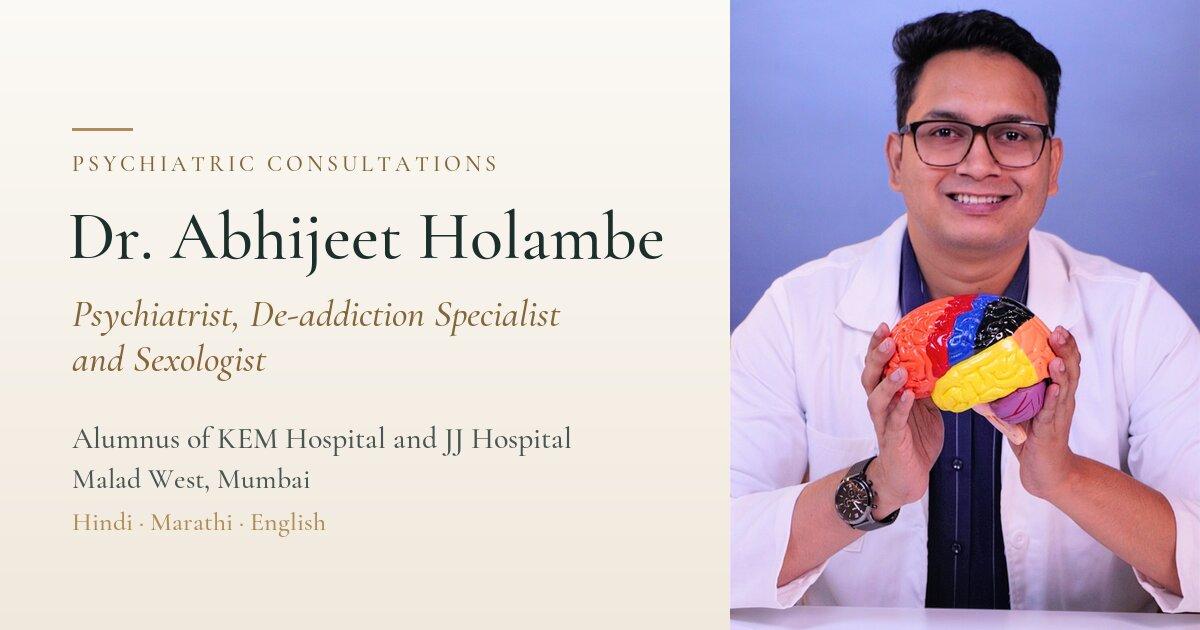
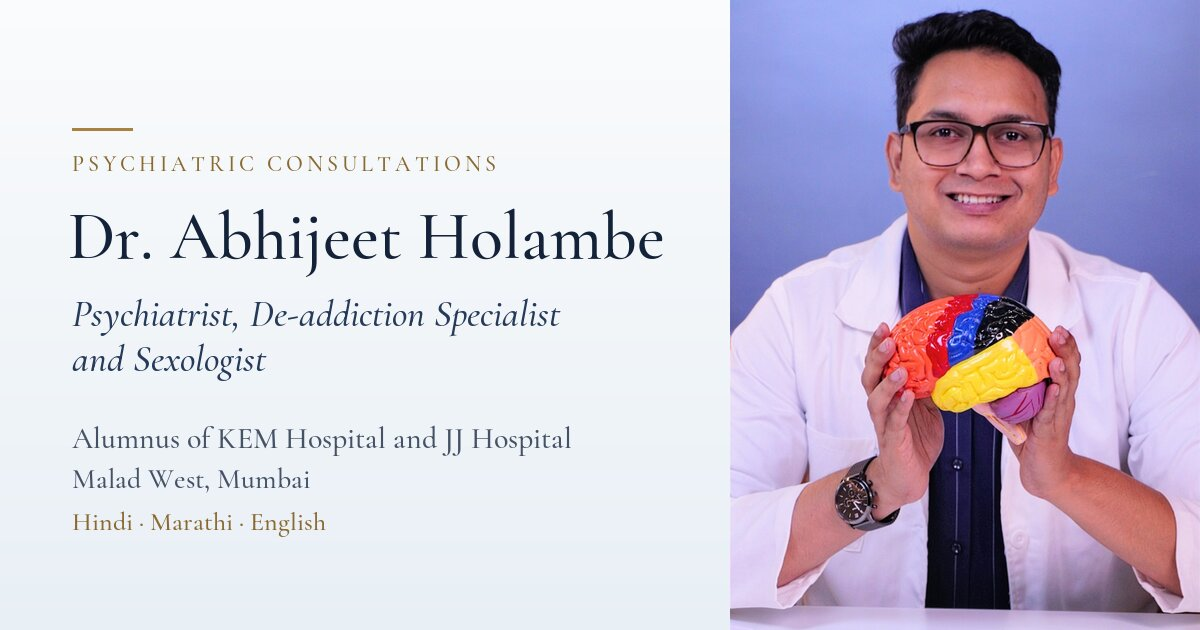
Switch palette from warm beige to cool porcelain and navy
- Rename color tokens to porcelain, mist and cloud and set cool values
- Use deep navy for text and buttons, keep muted gold for small accents
- Rename the soft accent token to sky
- Regenerate the share image in the new palette

Claude-Session: https://claude.ai/code/session_01XdHcfgJtNrDD8ZB43irrfS

diff --git a/src/app/(en)/about/page.tsx b/src/app/(en)/about/page.tsx
@@ -16,7 +16,7 @@ export default function AboutPage() {
     { "@type":"ListItem",position:1,name:"Home",item:siteUrl+"/" },
     { "@type":"ListItem",position:2,name:"About",item:siteUrl+"/about" },
   ]};
-  return <div className="min-h-screen bg-ivory pt-[72px]">
+  return <div className="min-h-screen bg-porcelain pt-[72px]">
     <script type="application/ld+json" dangerouslySetInnerHTML={{__html:JSON.stringify(schema)}} />
     <div className="mx-auto max-w-6xl px-5 py-12 sm:px-8 sm:py-16 lg:px-10">
       <nav aria-label="Breadcrumb" className="mb-8 text-sm text-subtle"><Link href="/" className="hover:text-ink">Home</Link><span className="mx-2">/</span><span>About</span></nav>
@@ -27,9 +27,9 @@ export default function AboutPage() {
           <h1 className="mt-4 font-serif text-4xl font-medium leading-tight tracking-tight text-ink sm:text-5xl">Dr. Abhijeet Holambe</h1>
           <p className="mt-4 text-lg leading-8 text-body">Psychiatrist, De-addiction Specialist and Sexologist · Alumnus of KEM Hospital and JJ Hospital, Mumbai · 6 years of clinical experience</p>
           <div className="mt-6 space-y-4 text-base leading-8 text-body"><p>{ABOUT.split("\n\n")[0]}</p><p>Dr. Holambe works as a psychiatrist, de-addiction specialist and sexologist. His approach begins with listening carefully, understanding each person’s concerns and circumstances, and explaining possible next steps in plain language. Care recommendations are individual. Medication is discussed when it may be clinically appropriate, with room to ask about benefits, side effects, and alternatives.</p><p>Alongside clinical consultations, Dr. Holambe’s work includes workplace wellness education and conversations about mental health at work. These sessions address stress, wellbeing, and ways to make it easier to seek support.</p></div>
-          <div className="mt-7 grid gap-3 sm:grid-cols-2"><div className="rounded-2xl bg-sand p-5"><p className="text-[13px] font-semibold uppercase tracking-[0.15em] text-bronze">Alumnus of KEM and JJ</p><p className="mt-2 text-sm leading-6 text-ink">Seth GS Medical College and KEM Hospital<br />Grant Medical College and JJ Hospital</p><p className="mt-3 text-xs font-semibold text-body">{QUALIFICATIONS.join(" · ")}</p></div><div className="rounded-2xl bg-sand p-5"><p className="text-[13px] font-semibold uppercase tracking-[0.15em] text-bronze">Languages and fees</p><p className="mt-2 text-sm leading-6 text-ink">{CONSULTATION_LANGUAGES.join(" · ")}</p><p className="mt-3 text-xs leading-5 text-body">First consultation: {FIRST_CONSULTATION_FEE}<br />Follow-up: {FOLLOW_UP_CONSULTATION_FEE}</p></div></div>
+          <div className="mt-7 grid gap-3 sm:grid-cols-2"><div className="rounded-2xl bg-mist p-5"><p className="text-[13px] font-semibold uppercase tracking-[0.15em] text-bronze">Alumnus of KEM and JJ</p><p className="mt-2 text-sm leading-6 text-ink">Seth GS Medical College and KEM Hospital<br />Grant Medical College and JJ Hospital</p><p className="mt-3 text-xs font-semibold text-body">{QUALIFICATIONS.join(" · ")}</p></div><div className="rounded-2xl bg-mist p-5"><p className="text-[13px] font-semibold uppercase tracking-[0.15em] text-bronze">Languages and fees</p><p className="mt-2 text-sm leading-6 text-ink">{CONSULTATION_LANGUAGES.join(" · ")}</p><p className="mt-3 text-xs leading-5 text-body">First consultation: {FIRST_CONSULTATION_FEE}<br />Follow-up: {FOLLOW_UP_CONSULTATION_FEE}</p></div></div>
           <div className="mt-7"><p className="text-sm font-semibold text-ink">Registration</p><p className="mt-2 text-sm leading-6 text-body">Maharashtra Medical Council registration no. 2020042727 (2020)</p></div><div className="mt-7"><p className="text-sm font-semibold text-ink">Areas of care</p><p className="mt-2 text-sm leading-6 text-body">{SPECIALISATIONS.join(" · ")}</p></div>
-          <div className="mt-8 rounded-2xl border border-line bg-white p-5"><p className="text-sm font-semibold text-ink">Workplace wellness</p><p className="mt-2 text-sm leading-6 text-body">Dr. Holambe conducts workplace wellness workshops on stress, burnout, and mental health at work. For workshop enquiries, contact the practice on WhatsApp.</p><a href={WHATSAPP_WORKSHOP_LINK} target="_blank" rel="noopener noreferrer" className="mt-4 inline-flex min-h-11 items-center justify-center rounded-full bg-ink px-5 py-2.5 text-sm font-semibold text-white">WhatsApp for workshop enquiries</a></div><div className="mt-8 flex flex-col gap-3 sm:flex-row"><a href={WHATSAPP_LINK} target="_blank" rel="noopener noreferrer" className="inline-flex min-h-12 items-center justify-center rounded-full bg-ink px-6 py-3 text-sm font-semibold text-white transition hover:bg-ink-soft">Book on WhatsApp</a><Link href="/contact" className="inline-flex min-h-12 items-center justify-center rounded-full border border-line-strong bg-white px-6 py-3 text-sm font-semibold text-ink transition hover:bg-sand">Clinic and contact details</Link></div>
+          <div className="mt-8 rounded-2xl border border-line bg-white p-5"><p className="text-sm font-semibold text-ink">Workplace wellness</p><p className="mt-2 text-sm leading-6 text-body">Dr. Holambe conducts workplace wellness workshops on stress, burnout, and mental health at work. For workshop enquiries, contact the practice on WhatsApp.</p><a href={WHATSAPP_WORKSHOP_LINK} target="_blank" rel="noopener noreferrer" className="mt-4 inline-flex min-h-11 items-center justify-center rounded-full bg-ink px-5 py-2.5 text-sm font-semibold text-white">WhatsApp for workshop enquiries</a></div><div className="mt-8 flex flex-col gap-3 sm:flex-row"><a href={WHATSAPP_LINK} target="_blank" rel="noopener noreferrer" className="inline-flex min-h-12 items-center justify-center rounded-full bg-ink px-6 py-3 text-sm font-semibold text-white transition hover:bg-ink-soft">Book on WhatsApp</a><Link href="/contact" className="inline-flex min-h-12 items-center justify-center rounded-full border border-line-strong bg-white px-6 py-3 text-sm font-semibold text-ink transition hover:bg-mist">Clinic and contact details</Link></div>
         </div>
       </div>
     </div>

diff --git a/src/app/(en)/services/[slug]/page.tsx b/src/app/(en)/services/[slug]/page.tsx
@@ -72,7 +72,7 @@ export default async function ServicePage({ params }: { params: Promise<{ slug: 
   };
 
   return (
-    <div className="min-h-screen bg-ivory pt-24">
+    <div className="min-h-screen bg-porcelain pt-24">
       <script type="application/ld+json" dangerouslySetInnerHTML={{ __html: JSON.stringify(structuredData).replace(/</g, "\\u003c") }} />
       <article className="mx-auto max-w-4xl px-5 py-12 sm:px-8 sm:py-16">
         <nav aria-label="Breadcrumb" className="mb-8 text-sm text-subtle">
@@ -93,7 +93,7 @@ export default async function ServicePage({ params }: { params: Promise<{ slug: 
         <section className="mt-10 rounded-3xl border border-line bg-white p-6 sm:p-8">
           <h2 className="font-serif text-2xl font-medium text-ink">Common signs and symptoms</h2>
           <ul className="mt-5 grid gap-3 sm:grid-cols-2">
-            {service.signs.map((sign) => <li key={sign} className="flex gap-3 rounded-2xl bg-sand p-4 text-sm leading-6 text-body"><span aria-hidden="true" className="mt-2 h-1.5 w-1.5 shrink-0 rounded-full bg-gold" />{sign}</li>)}
+            {service.signs.map((sign) => <li key={sign} className="flex gap-3 rounded-2xl bg-mist p-4 text-sm leading-6 text-body"><span aria-hidden="true" className="mt-2 h-1.5 w-1.5 shrink-0 rounded-full bg-gold" />{sign}</li>)}
           </ul>
         </section>
         <section className="mt-10">
@@ -106,16 +106,16 @@ export default async function ServicePage({ params }: { params: Promise<{ slug: 
           <p className="mt-4 text-base leading-8 text-body">Medication is prescribed only after an individual assessment and discussion. You can ask about the purpose, possible side effects, alternatives, and how follow-up will work. There are no guaranteed results; the plan is reviewed as your needs and circumstances change.</p>
         </section>
         <section className="mt-10 grid gap-5 md:grid-cols-2">
-          <div className="rounded-3xl bg-sand p-6 sm:p-7">
+          <div className="rounded-3xl bg-mist p-6 sm:p-7">
             <p className="text-xs font-semibold uppercase tracking-[0.18em] text-bronze">Your first appointment</p>
             <h2 className="mt-3 font-serif text-2xl font-medium text-ink">A conversation at your pace</h2>
             <p className="mt-3 text-sm leading-7 text-body">The first visit is a chance to explain what has been troubling you, when it began, and what you hope will change. Dr. Holambe will ask about your health, sleep, daily life, and any medicines or past care that may be relevant. You can ask questions and share only what you feel ready to discuss. Together, you can consider an assessment and agree on next steps. Bring a current medicine list or previous reports if you have them; they are helpful but not required to begin.</p>
           </div>
           <div className="rounded-3xl bg-ink p-6 text-white sm:p-7">
-            <p className="text-xs font-semibold uppercase tracking-[0.18em] text-gold-soft">Online consultation</p>
+            <p className="text-xs font-semibold uppercase tracking-[0.18em] text-sky">Online consultation</p>
             <h2 className="mt-3 font-serif text-2xl font-medium">Care from a private space</h2>
             <p className="mt-3 text-sm leading-7 text-white/75">Online appointments are available by arrangement. Choose a private, quiet place and keep any reports or medicine details nearby. Some concerns need an in-person visit, examination, or further tests; if so, the doctor will explain why and discuss the next step. Online appointments are not a substitute for urgent emergency care.</p>
-            <a href={Info.WHATSAPP_LINK} target="_blank" rel="noopener noreferrer" className="mt-5 inline-flex rounded-full bg-gold-soft px-5 py-3 text-sm font-semibold text-ink transition hover:bg-white">Ask about an online appointment</a>
+            <a href={Info.WHATSAPP_LINK} target="_blank" rel="noopener noreferrer" className="mt-5 inline-flex rounded-full bg-sky px-5 py-3 text-sm font-semibold text-ink transition hover:bg-white">Ask about an online appointment</a>
           </div>
         </section>
         <section className="mt-12">
@@ -128,7 +128,7 @@ export default async function ServicePage({ params }: { params: Promise<{ slug: 
           </div>
         </section>
         <p className="mt-10 border-t border-line pt-6 text-xs leading-5 text-subtle">Last reviewed by Dr. Abhijeet Holambe, MD Psychiatry — October 2026.</p>
-        <section className="mt-12 rounded-3xl border border-line bg-sand p-6 sm:p-8">
+        <section className="mt-12 rounded-3xl border border-line bg-mist p-6 sm:p-8">
           <div className="flex flex-col gap-6 sm:flex-row sm:items-center">
             <Image src="/dr-abhijeet-holambe-clinic.jpg" alt="Dr. Abhijeet Holambe, psychiatrist in Malad West" width={1600} height={2844} sizes="96px" className="h-24 w-24 rounded-full object-cover object-[center_25%]" />
             <div className="flex-1">
@@ -147,7 +147,7 @@ export default async function ServicePage({ params }: { params: Promise<{ slug: 
           <div className="mt-4 flex flex-wrap gap-3">
             {service.related.map((relatedSlug) => {
               const relatedService = services[relatedSlug as ServiceSlug];
-              return <Link key={relatedSlug} href={"/services/" + relatedSlug} className="rounded-full border border-line bg-white px-4 py-2 text-sm text-bronze transition hover:border-gold hover:bg-sand">{relatedService.title}</Link>;
+              return <Link key={relatedSlug} href={"/services/" + relatedSlug} className="rounded-full border border-line bg-white px-4 py-2 text-sm text-bronze transition hover:border-gold hover:bg-mist">{relatedService.title}</Link>;
             })}
           </div>
         </section>

diff --git a/src/app/ui/navbar.tsx b/src/app/ui/navbar.tsx
@@ -67,21 +67,21 @@ export default function Navbar({ locale = "en" }: { locale?: string }) {
   const t = copy[locale] ?? copy.en;
   const home = t.links[0].href;
   return (
-    <header className="fixed inset-x-0 top-0 z-40 border-b border-line bg-ivory/90 text-ink shadow-sm backdrop-blur-lg">
+    <header className="fixed inset-x-0 top-0 z-40 border-b border-line bg-porcelain/90 text-ink shadow-sm backdrop-blur-lg">
       <nav aria-label="Main navigation" className="mx-auto flex h-[72px] max-w-7xl items-center justify-between px-5 sm:px-8 lg:px-12">
         <Link href={home} className="whitespace-nowrap font-serif text-xl font-medium tracking-tight sm:text-2xl" onClick={() => setOpen(false)}>{Info.NAME}</Link>
         <div className="hidden items-center gap-6 xl:flex">
           {t.links.map((link) => <Link key={link.href} href={link.href} prefetch={false} className="whitespace-nowrap text-sm text-body transition hover:text-ink">{link.label}</Link>)}
-          <div className="flex items-center gap-2">{t.languages.map((language, index) => <span key={language.href} className="flex items-center gap-2">{index > 0 && <span aria-hidden="true" className="text-line-strong">|</span>}<Link href={language.href} aria-label={language.label} className="text-xs font-semibold text-body hover:text-ink">{language.short}</Link></span>)}<a href={Info.WHATSAPP_LINK} target="_blank" rel="noopener noreferrer" className="ml-2 whitespace-nowrap rounded-full bg-ink px-5 py-2.5 text-sm font-semibold text-ivory transition hover:bg-ink-soft">{t.book}</a></div>
+          <div className="flex items-center gap-2">{t.languages.map((language, index) => <span key={language.href} className="flex items-center gap-2">{index > 0 && <span aria-hidden="true" className="text-line-strong">|</span>}<Link href={language.href} aria-label={language.label} className="text-xs font-semibold text-body hover:text-ink">{language.short}</Link></span>)}<a href={Info.WHATSAPP_LINK} target="_blank" rel="noopener noreferrer" className="ml-2 whitespace-nowrap rounded-full bg-ink px-5 py-2.5 text-sm font-semibold text-porcelain transition hover:bg-ink-soft">{t.book}</a></div>
         </div>
-        <button type="button" aria-label={open ? t.close : t.open} aria-expanded={open} onClick={() => setOpen(!open)} className="grid h-11 w-11 place-items-center rounded-full border border-line transition hover:bg-stone xl:hidden">
+        <button type="button" aria-label={open ? t.close : t.open} aria-expanded={open} onClick={() => setOpen(!open)} className="grid h-11 w-11 place-items-center rounded-full border border-line transition hover:bg-cloud xl:hidden">
           {open ? <X aria-hidden="true" className="h-5 w-5" /> : <Menu aria-hidden="true" className="h-5 w-5" />}
         </button>
       </nav>
-      {open && <div className="border-t border-line bg-sand px-5 py-3 xl:hidden">
+      {open && <div className="border-t border-line bg-mist px-5 py-3 xl:hidden">
         <div className="mx-auto flex max-w-7xl flex-col">
-          {t.links.map((link) => <Link key={link.href} href={link.href} onClick={() => setOpen(false)} className="rounded-xl px-3 py-3 text-base text-body transition hover:bg-stone hover:text-ink">{link.label}</Link>)}
-          <div className="mt-2 flex items-center justify-center gap-3 py-2">{t.languages.map((language, index) => <span key={language.href} className="flex items-center gap-3">{index > 0 && <span aria-hidden="true" className="text-line-strong">|</span>}<Link href={language.href} onClick={() => setOpen(false)} className="text-sm font-semibold text-body">{language.label}</Link></span>)}</div><a href={Info.WHATSAPP_LINK} target="_blank" rel="noopener noreferrer" onClick={() => setOpen(false)} className="rounded-full bg-ink px-5 py-3 text-center text-sm font-semibold text-ivory">{t.bookMobile}</a>
+          {t.links.map((link) => <Link key={link.href} href={link.href} onClick={() => setOpen(false)} className="rounded-xl px-3 py-3 text-base text-body transition hover:bg-cloud hover:text-ink">{link.label}</Link>)}
+          <div className="mt-2 flex items-center justify-center gap-3 py-2">{t.languages.map((language, index) => <span key={language.href} className="flex items-center gap-3">{index > 0 && <span aria-hidden="true" className="text-line-strong">|</span>}<Link href={language.href} onClick={() => setOpen(false)} className="text-sm font-semibold text-body">{language.label}</Link></span>)}</div><a href={Info.WHATSAPP_LINK} target="_blank" rel="noopener noreferrer" onClick={() => setOpen(false)} className="rounded-full bg-ink px-5 py-3 text-center text-sm font-semibold text-porcelain">{t.bookMobile}</a>
         </div>
       </div>}
     </header>

diff --git a/src/app/ui/hero.tsx b/src/app/ui/hero.tsx
@@ -4,7 +4,7 @@ import * as Info from "@/app/config/constants/info";
 
 export default function Hero() {
   return (
-    <section id="hero" className="relative isolate overflow-hidden bg-gradient-to-b from-ivory to-sand pt-[72px] text-ink">
+    <section id="hero" className="relative isolate overflow-hidden bg-gradient-to-b from-porcelain to-mist pt-[72px] text-ink">
       <div aria-hidden="true" className="pointer-events-none absolute -right-40 -top-40 h-[36rem] w-[36rem] rounded-full border border-line" />
       <div aria-hidden="true" className="pointer-events-none absolute -right-12 -top-10 h-[26rem] w-[26rem] rounded-full border border-line" />
       <div className="relative mx-auto grid max-w-7xl items-center gap-12 px-5 pb-16 pt-12 sm:px-8 sm:pb-20 lg:min-h-[690px] lg:grid-cols-[1.08fr_0.92fr] lg:gap-16 lg:px-12">
@@ -16,7 +16,7 @@ export default function Hero() {
           <p className="mx-auto mt-5 flex max-w-xl items-start gap-3 rounded-2xl border border-gold/40 bg-white/70 px-4 py-3 text-left text-sm leading-6 text-body sm:text-base lg:mx-0"><GraduationCap aria-hidden="true" className="mt-0.5 h-5 w-5 shrink-0 text-gold" /><span><span className="font-semibold text-ink">Alumnus of KEM Hospital and JJ Hospital, Mumbai.</span> MBBS from Seth GS Medical College and KEM Hospital; MD Psychiatry from Grant Medical College and JJ Hospital.</span></p>
           <p className="mx-auto mt-6 max-w-xl text-base leading-8 text-body sm:text-lg lg:mx-0">Dr. Abhijeet Holambe offers psychiatric consultations for anxiety, low mood, sleep difficulties, sexual health and substance-use concerns. In-person appointments are at Sun Multispeciality Hospital in Malad West, Mumbai; online consultations are available by arrangement.</p>
           <div className="mt-8 flex flex-col justify-center gap-3 sm:flex-row lg:justify-start">
-            <a href={Info.WHATSAPP_LINK} target="_blank" rel="noopener noreferrer" className="inline-flex min-h-12 items-center justify-center gap-2 rounded-full bg-ink px-7 py-3 text-sm font-semibold text-ivory shadow-lg shadow-ink/10 transition hover:-translate-y-0.5 hover:bg-ink-soft">Book on WhatsApp <span aria-hidden="true">↗</span></a>
+            <a href={Info.WHATSAPP_LINK} target="_blank" rel="noopener noreferrer" className="inline-flex min-h-12 items-center justify-center gap-2 rounded-full bg-ink px-7 py-3 text-sm font-semibold text-porcelain shadow-lg shadow-ink/10 transition hover:-translate-y-0.5 hover:bg-ink-soft">Book on WhatsApp <span aria-hidden="true">↗</span></a>
             <a href={Info.PHONE_LINK} className="inline-flex min-h-12 items-center justify-center gap-2 rounded-full border border-line px-7 py-3 text-sm font-medium text-ink transition hover:border-ink hover:bg-white/60"><span aria-hidden="true">☎</span> Call now</a>
           </div>
           <div className="mx-auto mt-9 grid max-w-xl grid-cols-2 gap-x-4 gap-y-4 border-t border-line pt-6 text-left sm:grid-cols-4 lg:mx-0 lg:max-w-none">
@@ -28,10 +28,10 @@ export default function Hero() {
         </div>
         <div className="relative mx-auto w-full max-w-[430px] lg:mr-2">
           <div aria-hidden="true" className="absolute -inset-4 rounded-[13rem_13rem_2rem_2rem] border border-line bg-white/40" />
-          <div className="relative overflow-hidden rounded-[12rem_12rem_1.5rem_1.5rem] border border-line bg-stone shadow-2xl shadow-ink/10">
+          <div className="relative overflow-hidden rounded-[12rem_12rem_1.5rem_1.5rem] border border-line bg-cloud shadow-2xl shadow-ink/10">
             <Image src="/dr-abhijeet-holambe-brain-model.jpg" alt="Dr. Abhijeet Holambe holding a brain model, psychiatrist in Malad West, Mumbai" width={1600} height={2844} sizes="(max-width: 1024px) 85vw, 430px" priority className="aspect-[4/5] w-full object-cover object-[center_30%]" />
           </div>
-          <div className="absolute -bottom-4 -left-5 hidden rounded-2xl border border-line bg-ivory px-5 py-4 shadow-xl sm:block"><p className="text-xs font-semibold uppercase tracking-[0.18em] text-bronze">Alumnus of</p><p className="mt-1 text-sm text-ink">KEM Hospital · JJ Hospital</p></div>
+          <div className="absolute -bottom-4 -left-5 hidden rounded-2xl border border-line bg-porcelain px-5 py-4 shadow-xl sm:block"><p className="text-xs font-semibold uppercase tracking-[0.18em] text-bronze">Alumnus of</p><p className="mt-1 text-sm text-ink">KEM Hospital · JJ Hospital</p></div>
         </div>
       </div>
     </section>

diff --git a/src/app/ui/about.tsx b/src/app/ui/about.tsx
@@ -14,7 +14,7 @@ export default function About() {
         <div className="pt-3">
           <p className="text-xs font-semibold uppercase tracking-[0.2em] text-bronze">A little about the practice</p>
           <h2 className="mt-4 font-serif text-4xl font-medium leading-tight tracking-tight text-ink sm:text-5xl">Meet Dr. Abhijeet Holambe</h2>
-          <div className="mt-6 rounded-2xl border border-line bg-sand p-5">
+          <div className="mt-6 rounded-2xl border border-line bg-mist p-5">
             <p className="flex items-center gap-2 font-serif text-xl font-medium text-ink"><GraduationCap aria-hidden="true" className="h-5 w-5 text-gold" />Alumnus of KEM Hospital and JJ Hospital</p>
             <ul className="mt-3 space-y-2 text-sm leading-6 text-body">
               <li><span className="font-semibold text-ink">MBBS</span> · Seth GS Medical College and KEM Hospital, Mumbai</li>
@@ -24,10 +24,10 @@ export default function About() {
           <p className="mt-6 whitespace-pre-line text-base leading-8 text-body">{Info.ABOUT}</p><p className="mt-4 text-sm leading-7 text-body"><span className="font-semibold text-ink">Role:</span> {Info.ROLE}</p>
           <div className="mt-6 border-t border-line pt-5 text-sm text-body"><span className="font-semibold text-ink">Clinical areas</span><span className="mt-2 block">{Info.SPECIALISATIONS.join(" · ")}</span></div>
                     <div className="mt-6 grid gap-3 border-t border-line pt-6 sm:grid-cols-2">
-            <div className="rounded-2xl bg-sand p-4"><p className="text-[13px] font-semibold uppercase tracking-[0.16em] text-bronze">Consultation languages</p><p className="mt-2 text-sm font-medium text-ink">{Info.CONSULTATION_LANGUAGES.join(" · ")}</p></div>
-            <div className="rounded-2xl bg-sand p-4"><p className="text-[13px] font-semibold uppercase tracking-[0.16em] text-bronze">Consultation fees</p><p className="mt-2 text-sm leading-6 text-ink">First consultation: {Info.FIRST_CONSULTATION_FEE}<br />Follow-ups: {Info.FOLLOW_UP_CONSULTATION_FEE}</p></div>
+            <div className="rounded-2xl bg-mist p-4"><p className="text-[13px] font-semibold uppercase tracking-[0.16em] text-bronze">Consultation languages</p><p className="mt-2 text-sm font-medium text-ink">{Info.CONSULTATION_LANGUAGES.join(" · ")}</p></div>
+            <div className="rounded-2xl bg-mist p-4"><p className="text-[13px] font-semibold uppercase tracking-[0.16em] text-bronze">Consultation fees</p><p className="mt-2 text-sm leading-6 text-ink">First consultation: {Info.FIRST_CONSULTATION_FEE}<br />Follow-ups: {Info.FOLLOW_UP_CONSULTATION_FEE}</p></div>
           </div>
-          <div className="mt-7 flex flex-col gap-3 sm:flex-row"><Link href="/about" className="inline-flex min-h-11 items-center justify-center rounded-full bg-ink px-6 py-3 text-sm font-semibold text-white transition hover:bg-ink-soft">About Dr. Holambe</Link><Link href="/contact" className="inline-flex min-h-11 items-center justify-center rounded-full border border-line-strong bg-white px-6 py-3 text-sm font-semibold text-ink transition hover:bg-sand">Contact and directions</Link></div>
+          <div className="mt-7 flex flex-col gap-3 sm:flex-row"><Link href="/about" className="inline-flex min-h-11 items-center justify-center rounded-full bg-ink px-6 py-3 text-sm font-semibold text-white transition hover:bg-ink-soft">About Dr. Holambe</Link><Link href="/contact" className="inline-flex min-h-11 items-center justify-center rounded-full border border-line-strong bg-white px-6 py-3 text-sm font-semibold text-ink transition hover:bg-mist">Contact and directions</Link></div>
         </div>
       </div>
     </section>

diff --git a/src/app/(en)/faq/page.tsx b/src/app/(en)/faq/page.tsx
@@ -30,14 +30,14 @@ export default function FAQPage() {
     {"@type":"FAQPage","mainEntity":faqs.map(([question,answer])=>({"@type":"Question",name:question,acceptedAnswer:{"@type":"Answer",text:answer}}))},
     {"@type":"BreadcrumbList","itemListElement":[{"@type":"ListItem",position:1,name:"Home",item:siteUrl+"/"},{"@type":"ListItem",position:2,name:"FAQ",item:siteUrl+"/faq"}]}
   ]};
-  return <div className="min-h-screen bg-ivory px-5 pb-16 pt-28 sm:px-8 sm:pt-36">
+  return <div className="min-h-screen bg-porcelain px-5 pb-16 pt-28 sm:px-8 sm:pt-36">
     <script type="application/ld+json" dangerouslySetInnerHTML={{__html:JSON.stringify(schema)}} />
     <div className="mx-auto max-w-4xl">
       <nav aria-label="Breadcrumb" className="mb-8 text-sm text-subtle"><Link href="/" className="hover:text-ink">Home</Link><span className="mx-2">/</span><span>FAQ</span></nav>
       <p className="text-xs font-semibold uppercase tracking-[0.2em] text-bronze">Before your visit</p><h1 className="mt-4 font-serif text-4xl font-medium leading-tight text-ink sm:text-5xl">Frequently asked questions</h1>
       <p className="mt-5 max-w-2xl text-base leading-7 text-body">Straightforward information about consultations with Dr. Abhijeet Holambe.</p>
       <div className="mt-9 divide-y divide-line border-y border-line">{faqs.map(([question,answer])=><details key={question} className="group py-5"><summary className="cursor-pointer list-none pr-8 font-medium text-ink">{question}<span aria-hidden="true" className="float-right text-gold transition group-open:rotate-45">＋</span></summary><p className="mt-3 max-w-3xl text-sm leading-7 text-body">{answer}</p></details>)}</div>
-      <div className="mt-10 rounded-3xl bg-sand p-6 sm:p-8"><h2 className="font-serif text-2xl text-ink">Need help booking?</h2><p className="mt-2 text-sm leading-6 text-body">Contact the practice to request an in-person or online appointment.</p><div className="mt-5 flex flex-col gap-3 sm:flex-row"><a href={Info.WHATSAPP_LINK} target="_blank" rel="noopener noreferrer" className="inline-flex min-h-12 items-center justify-center rounded-full bg-ink px-6 py-3 text-sm font-semibold text-white">Book on WhatsApp</a><a href={Info.PHONE_LINK} className="inline-flex min-h-12 items-center justify-center rounded-full border border-line-strong bg-white px-6 py-3 text-sm font-semibold text-ink">Call now</a></div></div>
+      <div className="mt-10 rounded-3xl bg-mist p-6 sm:p-8"><h2 className="font-serif text-2xl text-ink">Need help booking?</h2><p className="mt-2 text-sm leading-6 text-body">Contact the practice to request an in-person or online appointment.</p><div className="mt-5 flex flex-col gap-3 sm:flex-row"><a href={Info.WHATSAPP_LINK} target="_blank" rel="noopener noreferrer" className="inline-flex min-h-12 items-center justify-center rounded-full bg-ink px-6 py-3 text-sm font-semibold text-white">Book on WhatsApp</a><a href={Info.PHONE_LINK} className="inline-flex min-h-12 items-center justify-center rounded-full border border-line-strong bg-white px-6 py-3 text-sm font-semibold text-ink">Call now</a></div></div>
     </div>
   </div>;
 }

diff --git a/src/app/ui/locations.tsx b/src/app/ui/locations.tsx
@@ -4,10 +4,10 @@ import * as Info from "@/app/config/constants/info";
 
 export default function Locations() {
   return (
-    <section id="locations" className="scroll-reveal bg-sand py-20 text-ink sm:py-24">
+    <section id="locations" className="scroll-reveal bg-mist py-20 text-ink sm:py-24">
       <div className="mx-auto max-w-6xl px-5 sm:px-8 lg:px-10">
         <div className="mb-9 max-w-xl"><p className="text-xs font-semibold uppercase tracking-[0.2em] text-bronze">Clinic information</p><h2 className="mt-4 font-serif text-4xl font-medium leading-tight tracking-tight sm:text-5xl">Psychiatric consultations in Malad West, Mumbai</h2><p className="mt-5 leading-7 text-body">In-person appointments are at Sun Multispeciality Hospital in Malad West. People from nearby Kandivali, Goregaon and Borivali can request an appointment; online consultations are also available by arrangement.</p></div>
-        <div className="grid overflow-hidden rounded-3xl bg-ivory text-ink shadow-2xl shadow-black/10 lg:grid-cols-[0.78fr_1.22fr]">
+        <div className="grid overflow-hidden rounded-3xl bg-porcelain text-ink shadow-2xl shadow-black/10 lg:grid-cols-[0.78fr_1.22fr]">
           <div className="p-7 sm:p-9">
             <p className="text-xs font-semibold uppercase tracking-[0.18em] text-bronze">Malad West · Mumbai</p><h3 className="mt-3 font-serif text-2xl font-medium sm:text-3xl">Sun Multispeciality Hospital</h3>
             <address className="mt-4 flex gap-3 not-italic text-sm leading-7 text-body"><MapPin className="mt-1 h-4 w-4 shrink-0 text-bronze" /><span>{Info.ADDRESS}</span></address>
@@ -16,7 +16,7 @@ export default function Locations() {
             <Link href="/contact" className="mt-5 inline-flex text-sm font-semibold text-bronze underline decoration-line-strong underline-offset-4 hover:text-ink">Full address, hours and contact details</Link>
             <a className="mt-7 inline-flex items-center justify-center rounded-full bg-ink px-6 py-3 text-sm font-semibold text-white transition hover:bg-ink-soft" href={Info.GOOGLE_MAPS} target="_blank" rel="noopener noreferrer">Open directions <span aria-hidden="true" className="ml-2">↗</span></a>
           </div>
-          <div className="min-h-[340px] bg-stone sm:min-h-[420px]"><iframe title="Map to Sun Multispeciality Hospital in Malad West, Mumbai" src="https://www.google.com/maps?q=Sun%20Multispeciality%20Hospital%2C%20Malad%20West%2C%20Mumbai&output=embed" width="100%" height="100%" loading="lazy" referrerPolicy="no-referrer-when-downgrade" className="min-h-[340px] w-full border-0 sm:min-h-[420px]" /></div>
+          <div className="min-h-[340px] bg-cloud sm:min-h-[420px]"><iframe title="Map to Sun Multispeciality Hospital in Malad West, Mumbai" src="https://www.google.com/maps?q=Sun%20Multispeciality%20Hospital%2C%20Malad%20West%2C%20Mumbai&output=embed" width="100%" height="100%" loading="lazy" referrerPolicy="no-referrer-when-downgrade" className="min-h-[340px] w-full border-0 sm:min-h-[420px]" /></div>
         </div>
       </div>
     </section>

diff --git a/src/app/(en)/contact/page.tsx b/src/app/(en)/contact/page.tsx
@@ -11,7 +11,7 @@ export const metadata: Metadata = {
 };
 export default function ContactPage() {
   const schema={"@context":"https://schema.org","@type":"BreadcrumbList","itemListElement":[{"@type":"ListItem",position:1,name:"Home",item:siteUrl+"/"},{"@type":"ListItem",position:2,name:"Contact",item:siteUrl+"/contact"}]};
-  return <div className="min-h-screen bg-ivory px-5 pb-16 pt-28 sm:px-8 sm:pt-36">
+  return <div className="min-h-screen bg-porcelain px-5 pb-16 pt-28 sm:px-8 sm:pt-36">
     <script type="application/ld+json" dangerouslySetInnerHTML={{__html:JSON.stringify(schema)}} />
     <div className="mx-auto max-w-6xl">
       <nav aria-label="Breadcrumb" className="mb-8 text-sm text-subtle"><Link href="/" className="hover:text-ink">Home</Link><span className="mx-2">/</span><span>Contact</span></nav>
@@ -28,7 +28,7 @@ export default function ContactPage() {
           </div>
           <p className="mt-5 text-sm leading-6 text-body"><strong className="text-ink">Consultation fees:</strong> First consultation ₹1,800 · Follow-up ₹1,500</p><p className="mt-2 text-sm leading-6 text-body"><strong className="text-ink">Languages:</strong> Hindi · Marathi · English</p><a className="mt-7 inline-flex min-h-12 items-center justify-center rounded-full bg-ink px-6 py-3 text-sm font-semibold text-white transition hover:bg-ink-soft" href={Info.GOOGLE_MAPS} target="_blank" rel="noopener noreferrer">Open Google Maps directions ↗</a>
         </div>
-        <div className="min-h-[360px] bg-stone sm:min-h-[480px]"><iframe title="Sun Multispeciality Hospital location in Malad West, Mumbai" src="https://www.google.com/maps?q=Sun%20Multispeciality%20Hospital%2C%20Malad%20West%2C%20Mumbai&output=embed" width="100%" height="100%" loading="lazy" referrerPolicy="no-referrer-when-downgrade" className="min-h-[360px] w-full border-0 sm:min-h-[480px]" /></div>
+        <div className="min-h-[360px] bg-cloud sm:min-h-[480px]"><iframe title="Sun Multispeciality Hospital location in Malad West, Mumbai" src="https://www.google.com/maps?q=Sun%20Multispeciality%20Hospital%2C%20Malad%20West%2C%20Mumbai&output=embed" width="100%" height="100%" loading="lazy" referrerPolicy="no-referrer-when-downgrade" className="min-h-[360px] w-full border-0 sm:min-h-[480px]" /></div>
       </div>
       <p className="mt-8 text-sm text-body">For information about what to expect, visit <Link className="font-medium text-bronze underline underline-offset-4" href="/faq">frequently asked questions</Link>.</p>
     </div>

diff --git a/src/components/services-cards.tsx b/src/components/services-cards.tsx
@@ -12,7 +12,7 @@ export default function ServicesCards() {
         {serviceCards.slice(0, FEATURED_COUNT).map((service, index) => {
           const Icon = icons[index % icons.length];
           return <Link key={service.slug} href={"/services/" + service.slug} prefetch={false} className="group flex flex-col rounded-3xl border border-line bg-white p-6 shadow-sm transition duration-300 hover:-translate-y-1 hover:border-gold hover:shadow-xl hover:shadow-ink/10 focus-visible:outline-none focus-visible:ring-2 focus-visible:ring-gold">
-            <span className="grid h-12 w-12 place-items-center rounded-2xl bg-sand transition group-hover:bg-stone"><Icon aria-hidden="true" className="h-5 w-5 text-bronze" strokeWidth={1.7} /></span>
+            <span className="grid h-12 w-12 place-items-center rounded-2xl bg-mist transition group-hover:bg-cloud"><Icon aria-hidden="true" className="h-5 w-5 text-bronze" strokeWidth={1.7} /></span>
             <h3 className="mt-5 font-serif text-2xl font-medium leading-snug text-ink">{service.title}</h3>
             <p className="mt-2 flex-1 text-sm leading-6 text-body">{service.description}</p>
             <span className="mt-5 inline-flex items-center gap-2 text-sm font-semibold text-bronze">Read the guide <span aria-hidden="true" className="transition group-hover:translate-x-1">→</span></span>
@@ -22,7 +22,7 @@ export default function ServicesCards() {
       <div className="mt-10 rounded-3xl border border-line bg-white p-6 sm:p-8">
         <h3 className="font-serif text-2xl font-medium text-ink">More areas of care</h3>
         <ul className="mt-5 flex flex-wrap gap-3">
-          {serviceCards.slice(FEATURED_COUNT).map((service) => <li key={service.slug}><Link href={"/services/" + service.slug} prefetch={false} className="inline-flex min-h-11 items-center rounded-full border border-line bg-ivory px-4 py-2 text-sm text-bronze transition hover:border-gold hover:bg-sand">{service.title}</Link></li>)}
+          {serviceCards.slice(FEATURED_COUNT).map((service) => <li key={service.slug}><Link href={"/services/" + service.slug} prefetch={false} className="inline-flex min-h-11 items-center rounded-full border border-line bg-porcelain px-4 py-2 text-sm text-bronze transition hover:border-gold hover:bg-mist">{service.title}</Link></li>)}
         </ul>
       </div>
     </>

diff --git a/src/app/ui/services.tsx b/src/app/ui/services.tsx
@@ -3,7 +3,7 @@ import * as Info from "@/app/config/constants/info";
 
 export default function Services() {
   return (
-    <section id="services" className="scroll-reveal bg-ivory py-20 sm:py-24">
+    <section id="services" className="scroll-reveal bg-porcelain py-20 sm:py-24">
       <div className="mx-auto max-w-6xl px-5 sm:px-8 lg:px-10">
         <div className="mx-auto mb-12 max-w-3xl text-center">
           <p className="text-xs font-semibold uppercase tracking-[0.2em] text-bronze">Areas of care</p>
@@ -11,7 +11,7 @@ export default function Services() {
           <p className="mx-auto mt-5 max-w-2xl leading-7 text-body">Read patient-friendly guides to concerns such as anxiety, depression, sleep difficulties, sexual health and substance use. Dr. Holambe offers appointments in Malad West and online when suitable; assessment and care recommendations are individual.</p>
         </div>
         <ServicesCards />
-        <div className="mt-12 rounded-3xl bg-sand p-6 text-center sm:p-8"><p className="font-serif text-2xl text-ink">Not sure where to start?</p><p className="mx-auto mt-2 max-w-2xl text-sm leading-6 text-body">Describe what has been troubling you and the practice can help you choose an appointment.</p><a href={Info.WHATSAPP_LINK} target="_blank" rel="noopener noreferrer" className="mt-5 inline-flex min-h-11 items-center justify-center rounded-full bg-ink px-6 py-3 text-sm font-semibold text-white transition hover:bg-ink-soft">Ask about an appointment</a></div>
+        <div className="mt-12 rounded-3xl bg-mist p-6 text-center sm:p-8"><p className="font-serif text-2xl text-ink">Not sure where to start?</p><p className="mx-auto mt-2 max-w-2xl text-sm leading-6 text-body">Describe what has been troubling you and the practice can help you choose an appointment.</p><a href={Info.WHATSAPP_LINK} target="_blank" rel="noopener noreferrer" className="mt-5 inline-flex min-h-11 items-center justify-center rounded-full bg-ink px-6 py-3 text-sm font-semibold text-white transition hover:bg-ink-soft">Ask about an appointment</a></div>
       </div>
     </section>
   );

diff --git a/src/app/globals.css b/src/app/globals.css
@@ -36,34 +36,34 @@
   --color-input: var(--input);
   --color-ring: var(--ring);
 
-  /* Brand palette: ivory and warm sand surfaces, deep ink text, champagne gold accents */
-  --color-ivory: #fbf9f5;
-  --color-sand: #f4efe7;
-  --color-stone: #ece5d9;
-  --color-line: #e6ded1;
-  --color-line-strong: #d6c9b4;
-  --color-ink: #1d2f2c;
-  --color-ink-soft: #2f4541;
-  --color-body: #4a5652;
-  --color-subtle: #6a736f;
-  --color-gold: #b08d57;
-  --color-gold-soft: #e9dcc6;
-  --color-bronze: #85663a;
+  /* Brand palette: porcelain and mist blue surfaces, deep navy text, muted gold accents */
+  --color-porcelain: #fafbfc;
+  --color-mist: #eef3f7;
+  --color-cloud: #e3eaf0;
+  --color-line: #dde4eb;
+  --color-line-strong: #c3cfdb;
+  --color-ink: #14233a;
+  --color-ink-soft: #263b5a;
+  --color-body: #465366;
+  --color-subtle: #66717f;
+  --color-gold: #a8823f;
+  --color-sky: #dbe5ef;
+  --color-bronze: #8a6a2f;
 }
 
 :root {
   --radius: 0.75rem;
-  --background: #fbf9f5;
-  --foreground: #1d2f2c;
+  --background: #fafbfc;
+  --foreground: #14233a;
 }
 
 html { scroll-behavior: smooth; color-scheme: light; }
 body { background: var(--background); color: var(--foreground); font-family: var(--font-body), var(--font-devanagari), sans-serif; -webkit-font-smoothing: antialiased; }
 h1, h2, h3, h4 { font-family: var(--font-heading), var(--font-devanagari), Georgia, serif; }
 * { -webkit-overflow-scrolling: touch; }
-::selection { background: #e9dcc6; color: #1d2f2c; }
+::selection { background: #dbe5ef; color: #14233a; }
 a, button { -webkit-tap-highlight-color: transparent; }
-:focus-visible { outline: 2px solid #b08d57; outline-offset: 3px; }
+:focus-visible { outline: 2px solid #a8823f; outline-offset: 3px; }
 
 @media (prefers-reduced-motion: no-preference) and (supports (animation-timeline: view())) {
   .scroll-reveal { animation: scroll-reveal linear both; animation-timeline: view(); animation-range: entry 0% entry 30%; }

diff --git a/src/app/(en)/workplace-wellness/page.tsx b/src/app/(en)/workplace-wellness/page.tsx
@@ -15,7 +15,7 @@ export default function WorkplaceWellnessPage() {
     {"@type":"ListItem","position":1,"name":"Home","item":siteUrl+"/"},
     {"@type":"ListItem","position":2,"name":"Workplace wellness","item":siteUrl+"/workplace-wellness"}
   ]};
-  return <div className="min-h-screen bg-ivory px-5 pb-16 pt-28 sm:px-8 sm:pt-36">
+  return <div className="min-h-screen bg-porcelain px-5 pb-16 pt-28 sm:px-8 sm:pt-36">
     <script type="application/ld+json" dangerouslySetInnerHTML={{__html:JSON.stringify(schema)}} />
     <div className="mx-auto max-w-4xl">
       <nav aria-label="Breadcrumb" className="mb-8 text-sm text-subtle"><Link href="/">Home</Link><span className="mx-2">/</span><span>Workplace wellness</span></nav>
@@ -29,7 +29,7 @@ export default function WorkplaceWellnessPage() {
           ["Mental health at work","Building everyday awareness, reducing stigma, and knowing how to seek appropriate support."]
         ].map(([title,text])=><section key={title} className="rounded-3xl border border-line bg-white p-6"><h2 className="font-serif text-2xl text-ink">{title}</h2><p className="mt-3 text-sm leading-7 text-body">{text}</p></section>)}
       </div>
-      <section className="mt-10 rounded-3xl bg-sand p-6 sm:p-8">
+      <section className="mt-10 rounded-3xl bg-mist p-6 sm:p-8">
         <h2 className="font-serif text-2xl text-ink">Workshop enquiries</h2>
         <p className="mt-3 text-sm leading-7 text-body">For organisations interested in a workplace wellness session, contact Dr. Holambe on WhatsApp with the organisation name, approximate group size, and the topic you would like to discuss.</p>
         <a href={Info.WHATSAPP_WORKSHOP_LINK} target="_blank" rel="noopener noreferrer" className="mt-5 inline-flex min-h-12 items-center justify-center rounded-full bg-ink px-6 py-3 text-sm font-semibold text-white">WhatsApp enquiry</a>
